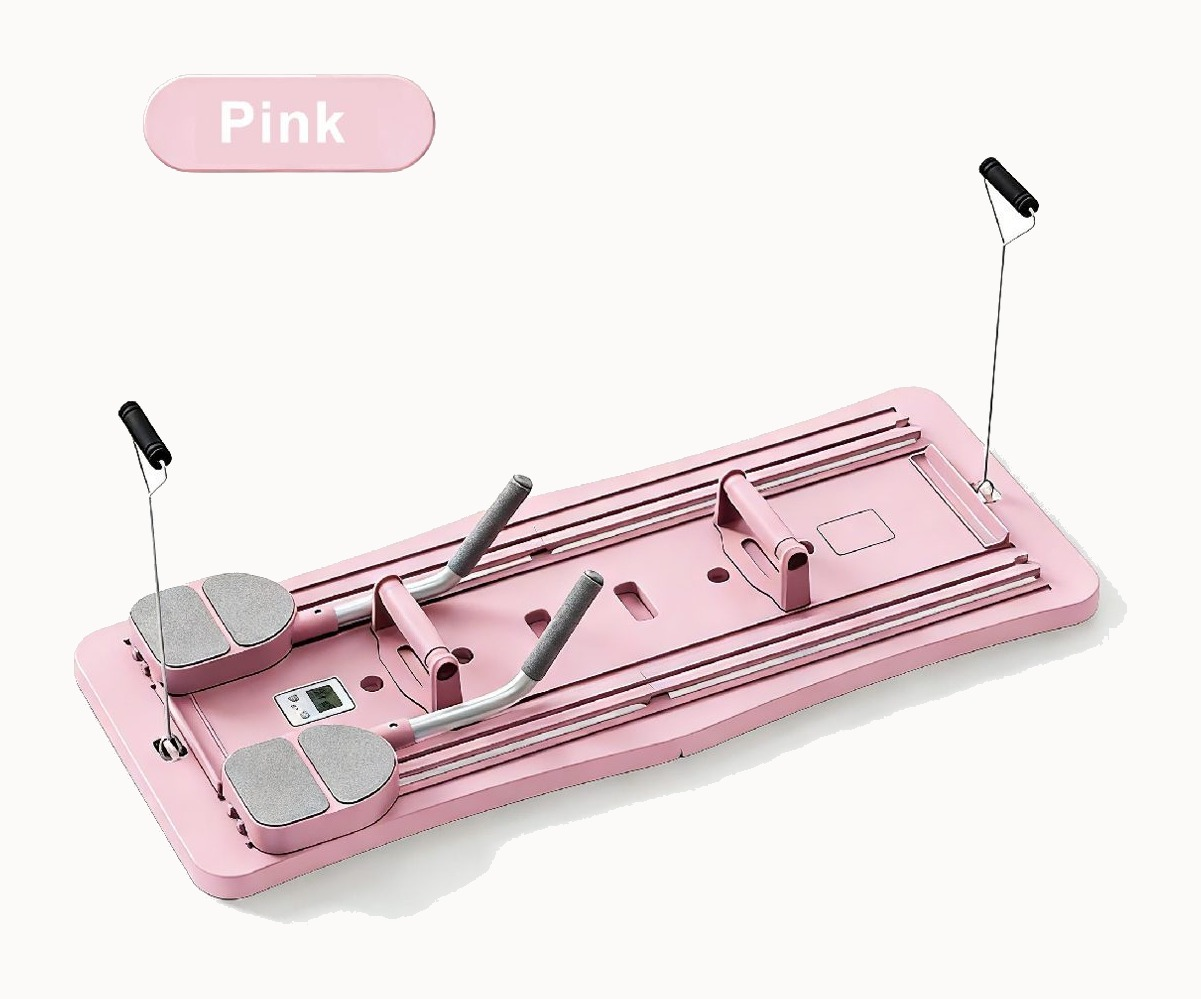
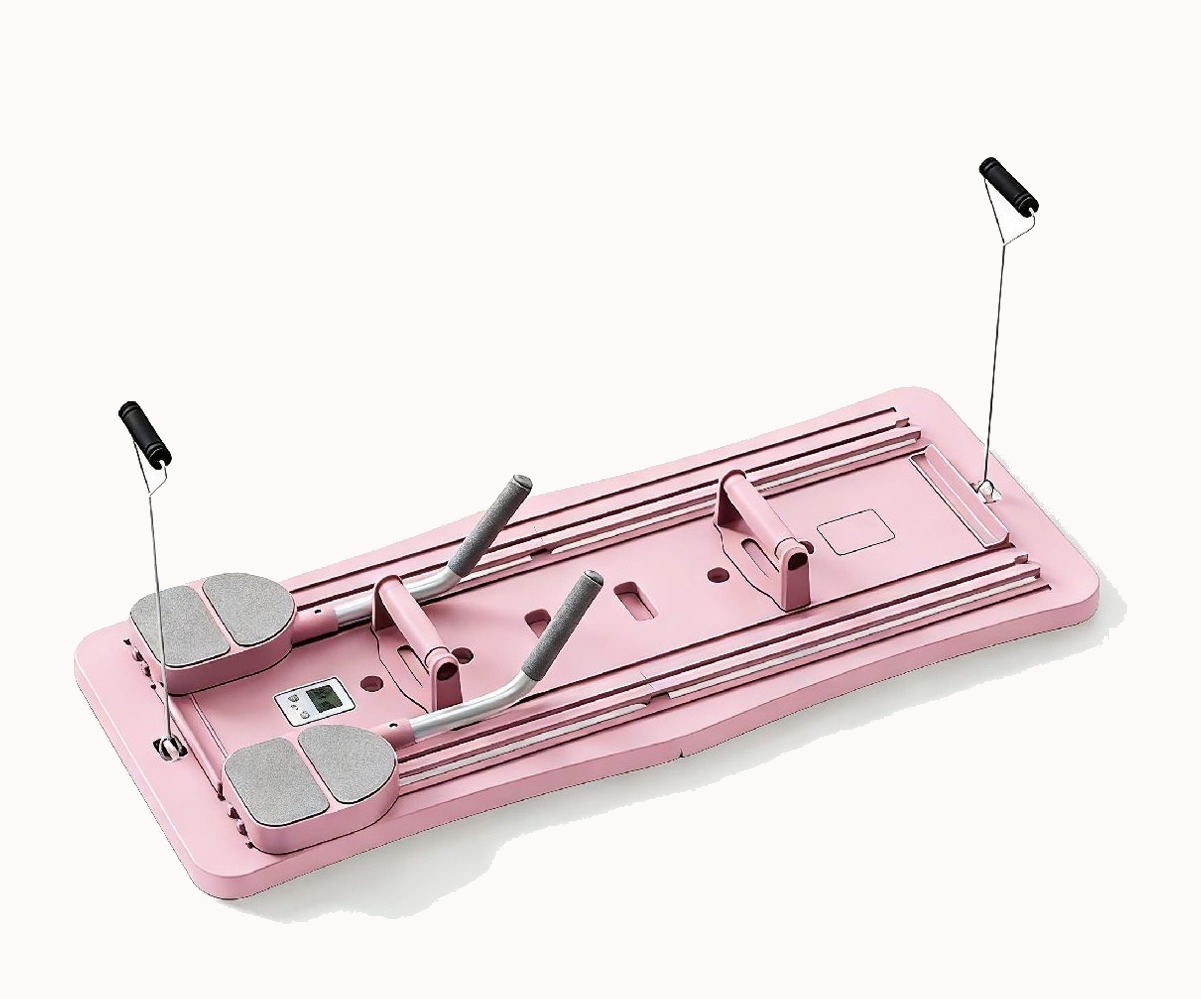
Fix two product photos: pilates ball notch and board "Pink" badge
- Pilates ball (blocks/massage): the earlier background clean-up ate a
  white notch out of the light pink ball; re-process from the original
  with a tighter tolerance so the ball stays whole.
- Boards hero/item: paint out the overlaid "Pink" colour-label pill so
  the board photo is clean.

Claude-Session: https://claude.ai/code/session_01HvyQyJMMjbpRPFY5Vp62nP

Changed region(s): [[0.1232, 0.0621, 0.3697, 0.1862]]

diff --git a/public/catalogo/massage/index.html b/public/catalogo/massage/index.html
@@ -157,7 +157,7 @@
       </div>
       <div class="accessory-card" data-reveal style="--reveal-delay:165ms">
         <div class="media-frame">
-          <img src="/assets/img/products/base-049.jpg" alt="Bola de Pilates — Massagem & Pequenos Acessórios" width="566" height="201" loading="lazy" decoding="async" class="photo ">
+          <img src="/assets/img/products/base-049.jpg" alt="Bola de Pilates — Massagem & Pequenos Acessórios" width="597" height="218" loading="lazy" decoding="async" class="photo ">
         </div>
         
         <h3>Bola de Pilates</h3>

diff --git a/public/catalogo/blocks-balls/index.html b/public/catalogo/blocks-balls/index.html
@@ -157,7 +157,7 @@
       </div>
       <div class="accessory-card" data-reveal style="--reveal-delay:165ms">
         <div class="media-frame">
-          <img src="/assets/img/products/base-049.jpg" alt="Bola de Yoga PVC — Blocos, Rolos & Bolas" width="566" height="201" loading="lazy" decoding="async" class="photo ">
+          <img src="/assets/img/products/base-049.jpg" alt="Bola de Yoga PVC — Blocos, Rolos & Bolas" width="597" height="218" loading="lazy" decoding="async" class="photo ">
         </div>
         
         <h3>Bola de Yoga PVC</h3>

diff --git a/public/en/catalogue/massage/index.html b/public/en/catalogue/massage/index.html
@@ -157,7 +157,7 @@
       </div>
       <div class="accessory-card" data-reveal style="--reveal-delay:165ms">
         <div class="media-frame">
-          <img src="/assets/img/products/base-049.jpg" alt="Pilates Ball — Massage & Small Accessories" width="566" height="201" loading="lazy" decoding="async" class="photo ">
+          <img src="/assets/img/products/base-049.jpg" alt="Pilates Ball — Massage & Small Accessories" width="597" height="218" loading="lazy" decoding="async" class="photo ">
         </div>
         
         <h3>Pilates Ball</h3>

diff --git a/public/en/catalogue/blocks-balls/index.html b/public/en/catalogue/blocks-balls/index.html
@@ -157,7 +157,7 @@
       </div>
       <div class="accessory-card" data-reveal style="--reveal-delay:165ms">
         <div class="media-frame">
-          <img src="/assets/img/products/base-049.jpg" alt="PVC Yoga Ball — Blocks, Rollers & Balls" width="566" height="201" loading="lazy" decoding="async" class="photo ">
+          <img src="/assets/img/products/base-049.jpg" alt="PVC Yoga Ball — Blocks, Rollers & Balls" width="597" height="218" loading="lazy" decoding="async" class="photo ">
         </div>
         
         <h3>PVC Yoga Ball</h3>
